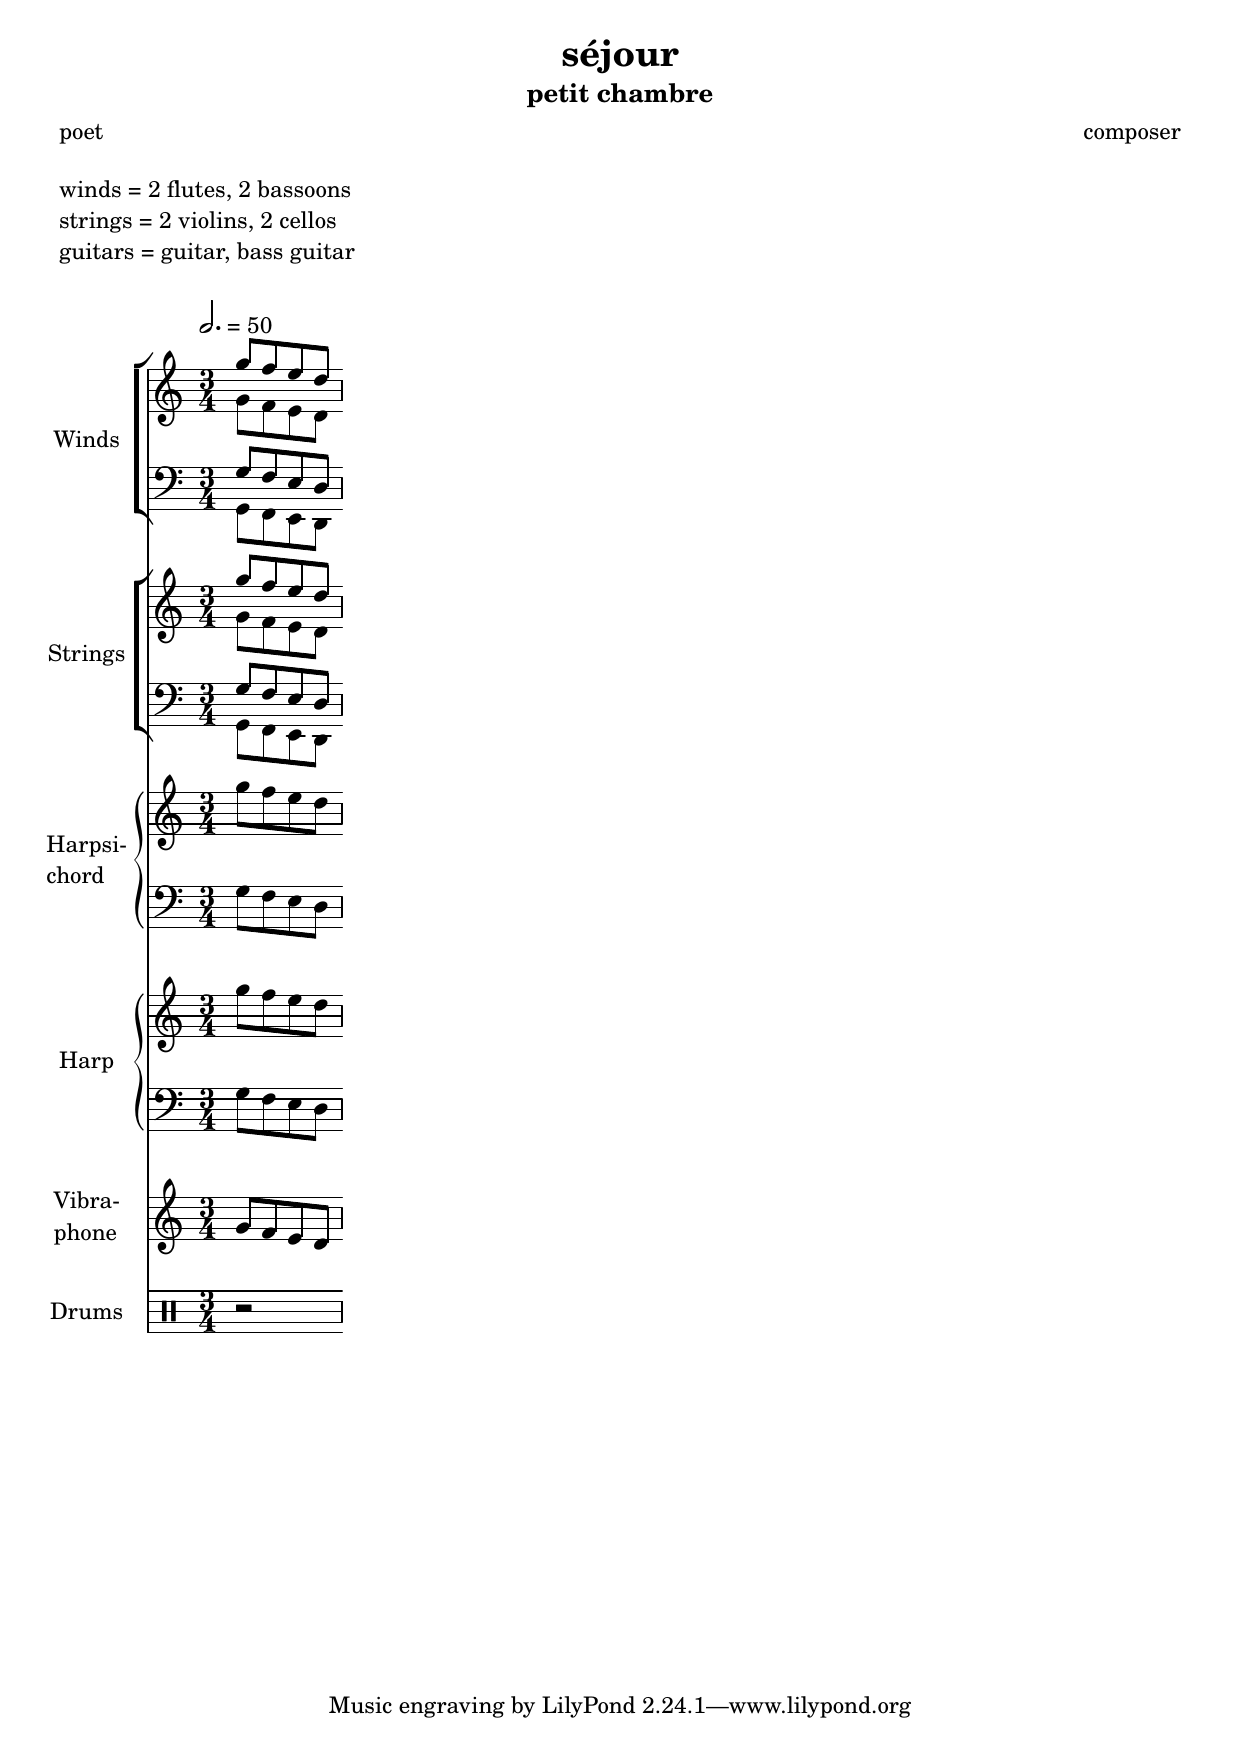
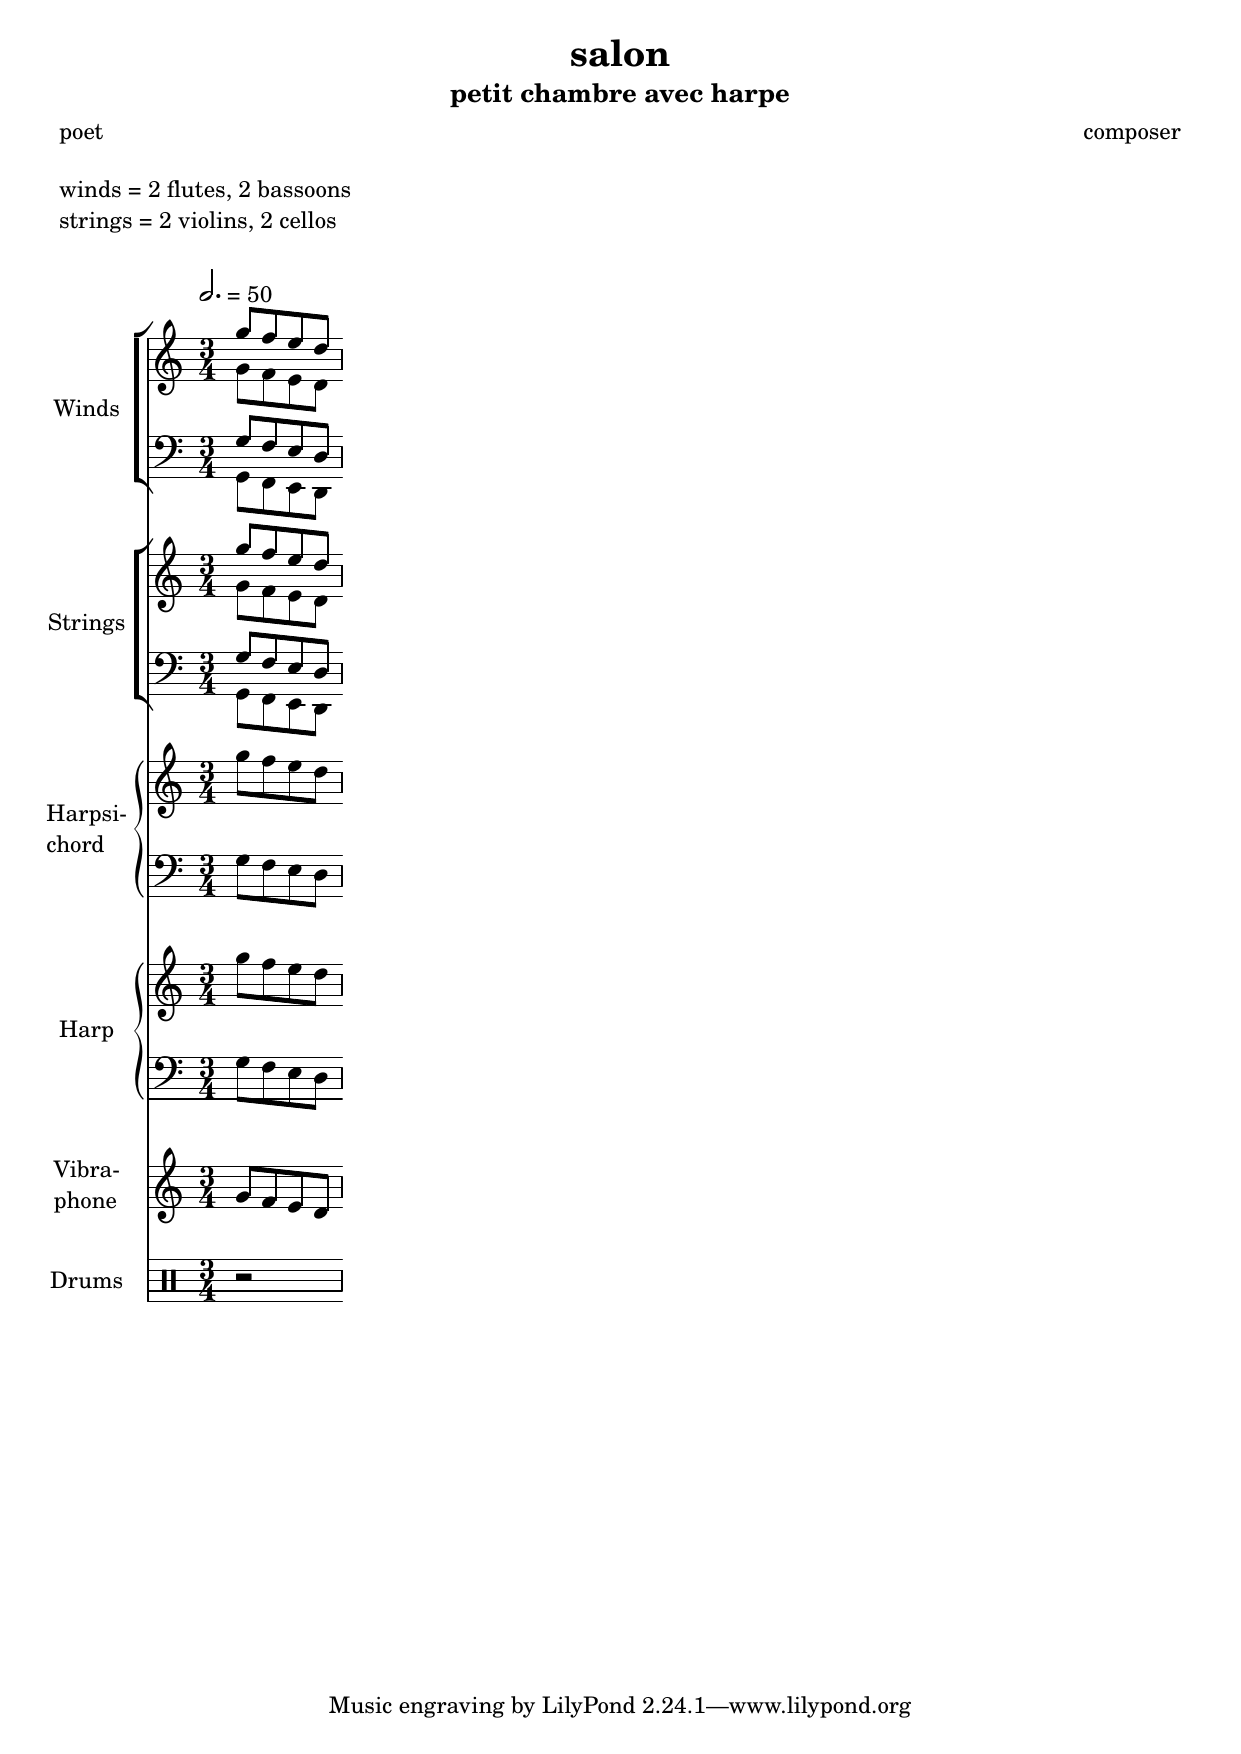
...

diff --git a/musica/index.html b/musica/index.html
@@ -3,7 +3,7 @@
 "http://www.w3.org/TR/xhtml1/DTD/xhtml1-strict.dtd">
 <html xmlns="http://www.w3.org/1999/xhtml" lang="en" xml:lang="en">
 <head>
-<!-- 2023-03-24 ven 08:42 -->
+<!-- 2023-03-24 ven 08:45 -->
 <meta http-equiv="Content-Type" content="text/html;charset=utf-8" />
 <meta name="viewport" content="width=device-width, initial-scale=1" />
 <title>Eclats de vers : Opus : Musica</title>
@@ -205,17 +205,17 @@
 <h2>Table of Contents</h2>
 <div id="text-table-of-contents" role="doc-toc">
 <ul>
-<li><a href="#org33a2276">1. Eclats de vers: Opus : Music</a></li>
+<li><a href="#org081b51e">1. Eclats de vers: Opus : Music</a></li>
 </ul>
 </div>
 </div>
 
-<div id="outline-container-org33a2276" class="outline-2">
-<h2 id="org33a2276"><span class="section-number-2">1.</span> Eclats de vers: Opus : Music</h2>
+<div id="outline-container-org081b51e" class="outline-2">
+<h2 id="org081b51e"><span class="section-number-2">1.</span> Eclats de vers: Opus : Music</h2>
 <div class="outline-text-2" id="text-1">
 </div>
-<div id="outline-container-org73cfd76" class="outline-3">
-<h3 id="org73cfd76"><span class="section-number-3">1.1.</span> Modèles lilypond</h3>
+<div id="outline-container-org7dbe5e2" class="outline-3">
+<h3 id="org7dbe5e2"><span class="section-number-3">1.1.</span> Modèles lilypond</h3>
 <div class="outline-text-3" id="text-1-1">
 <p>
 Ensembles et orchestres de chambre :
@@ -226,7 +226,7 @@ Ensembles et orchestres de chambre :
 <li><a href="templates/cord.html">Septuor de cordes</a></li>
 <li><a href="templates/boudoir.html">Boudoir : mini chambre</a></li>
 <li><a href="templates/sejour.html">Séjour : petit chambre</a></li>
-<li><a href="templates/salon.html">Salon : petit chambre, variante avec harpe pour remplacer les guitares</a></li>
+<li><a href="templates/salon.html">Salon : petit chambre, variante avec harpe</a></li>
 <li><a href="templates/kiosq.html">Kiosque : grand chambre avec quintette à vent</a></li>
 <li><a href="templates/clav.html">Claviers</a></li>
 <li><a href="templates/jazz.html">Jazz</a></li>
@@ -248,7 +248,7 @@ dans le fichier principal :
 </div>
 <div id="postamble" class="status">
 <p class="author">Author: chimay</p>
-<p class="date">Created: 2023-03-24 ven 08:42</p>
+<p class="date">Created: 2023-03-24 ven 08:45</p>
 <p class="validation"><a href="https://validator.w3.org/check?uri=referer">Validate</a></p>
 </div>
 </body>
